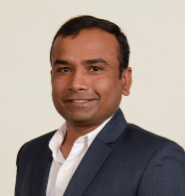
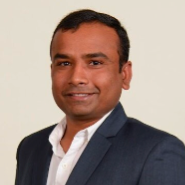
Add Ben Doyle to Speakers

diff --git a/speakers.py b/speakers.py
@@ -103,4 +103,12 @@ speakers = [
         "image": "gaurav_vikash.png",
         "description": "Gaurav is a cybersecurity leader who helps complex organisations move fast without compromising trust. With 16+ years across financial services, government, critical infrastructure, and tech, he’s built and led security programs that protect growth, recover from crisis, and hold under pressure - across Australia, the UK, and Asia.<br><br>He currently leads security for Axon’s Asia-Pacific region, working across public safety technologies and mission-critical platforms. He also advises selected organisations on scaling security capability, aligning with global compliance frameworks, and using security maturity as a lever to unlock new business and market expansion."
     },
+    {
+        "name": "Ben Doyle",
+        "jobtitle": "Director - Cyber Security Industry Experience",
+        "company": "Thales",
+        "linkedin": "https://www.linkedin.com/in/bendoylethales/",
+        "image": "ben_doyle.jpg",
+        "description": "Ben Doyle is a seasoned cyber security leader who served as CISO for Thales Australia & New Zealand for over two decades. With more than 25 years in the industry, Ben has been at the helm of information security strategies that span national security obligations, export controls, and the evolving cyber threat landscape.<br><br>Now leading Cyber Security Industry Experience at Thales Cyber and Digital, Ben continues to influence industry thinking by mentoring startups, advising boards, and supporting innovation across Australia’s cyber ecosystem. He is a vocal advocate for values-led leadership and inclusive community culture, and an active contributor to advisory boards such as AISA and AustCyber."
+    }, 
 ]
